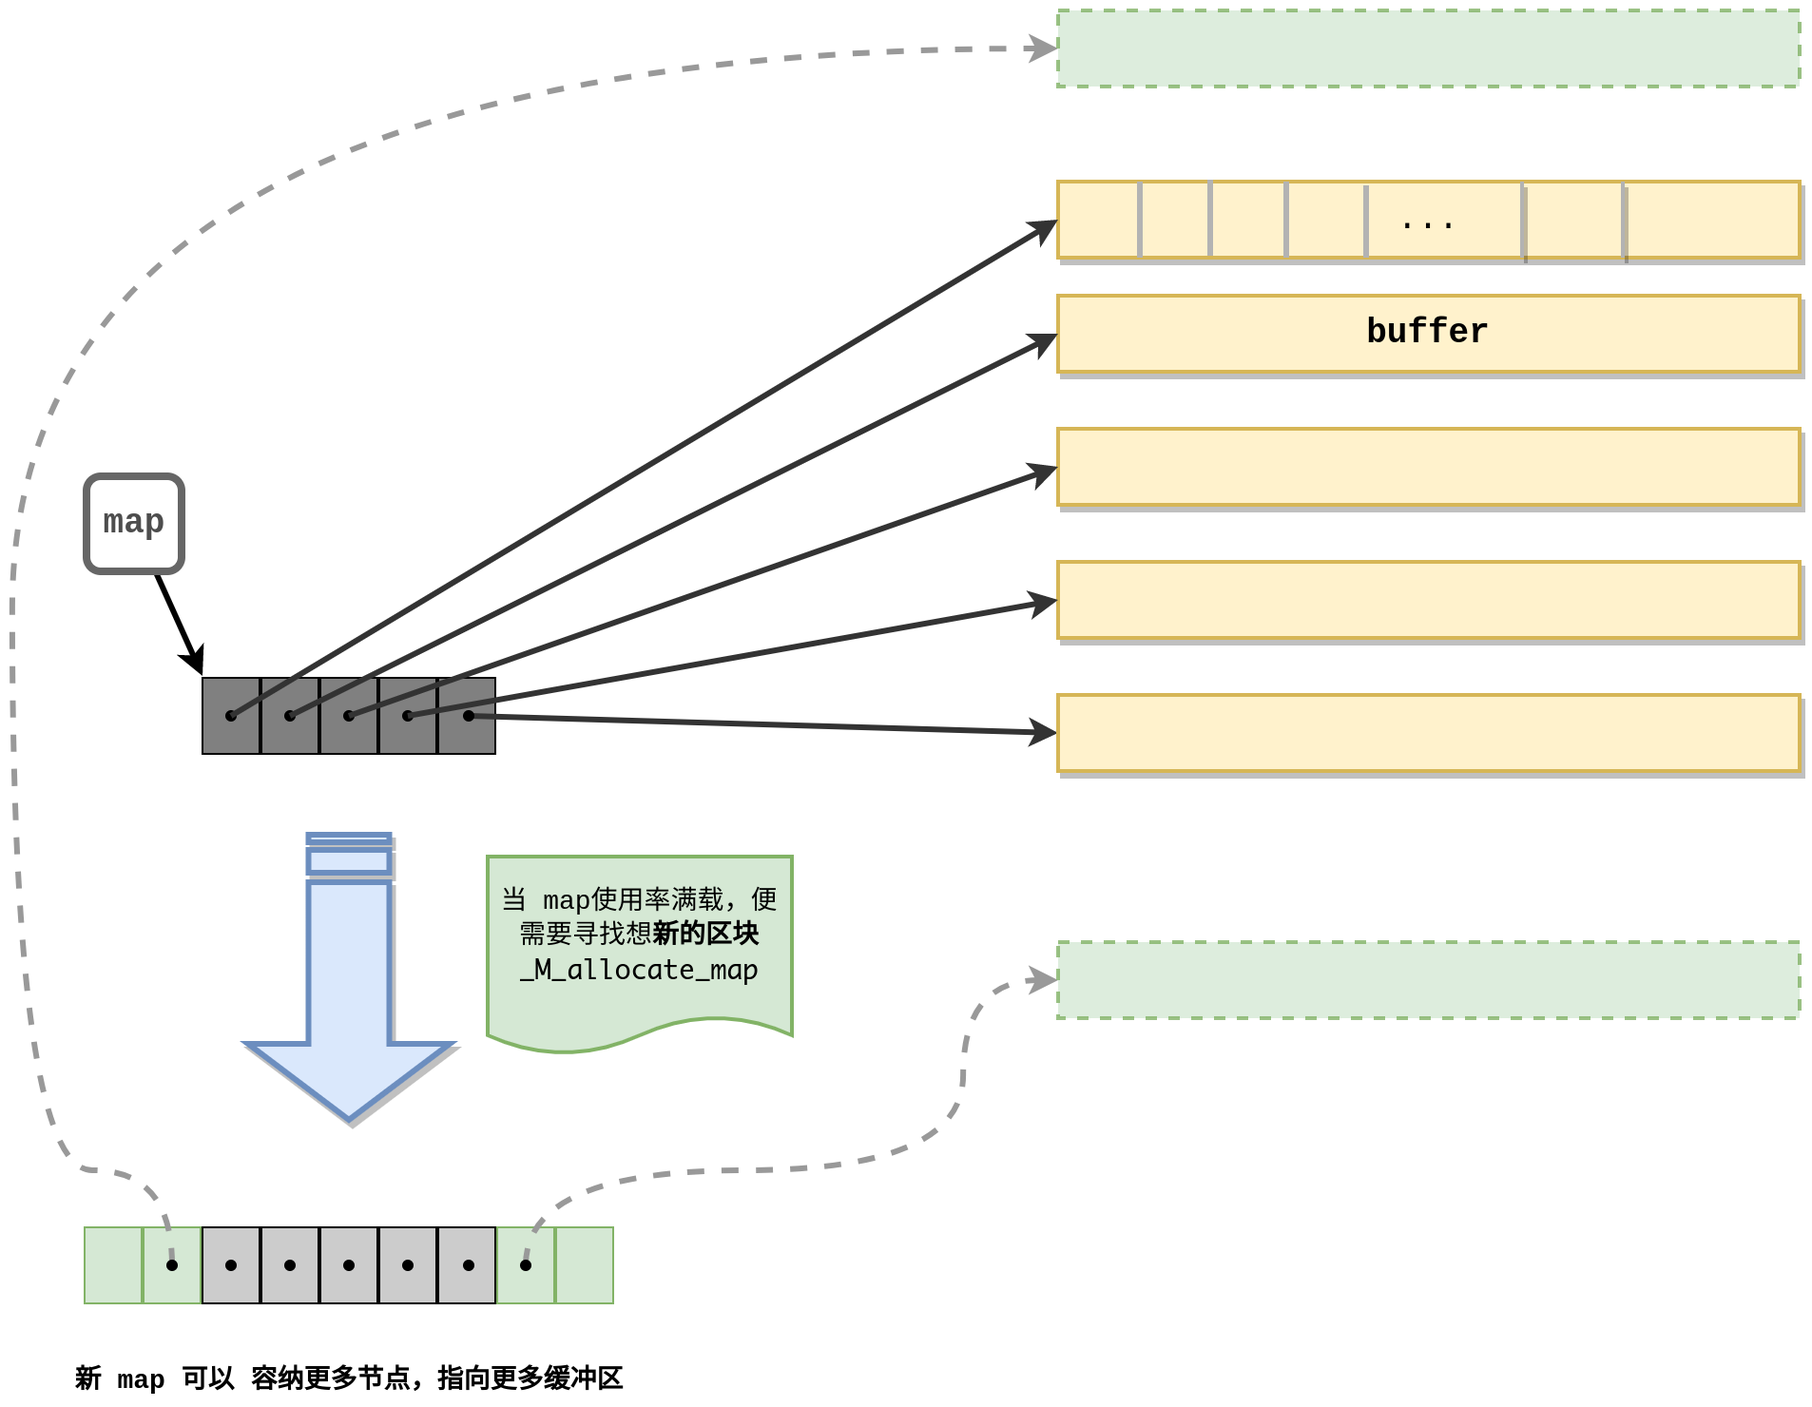
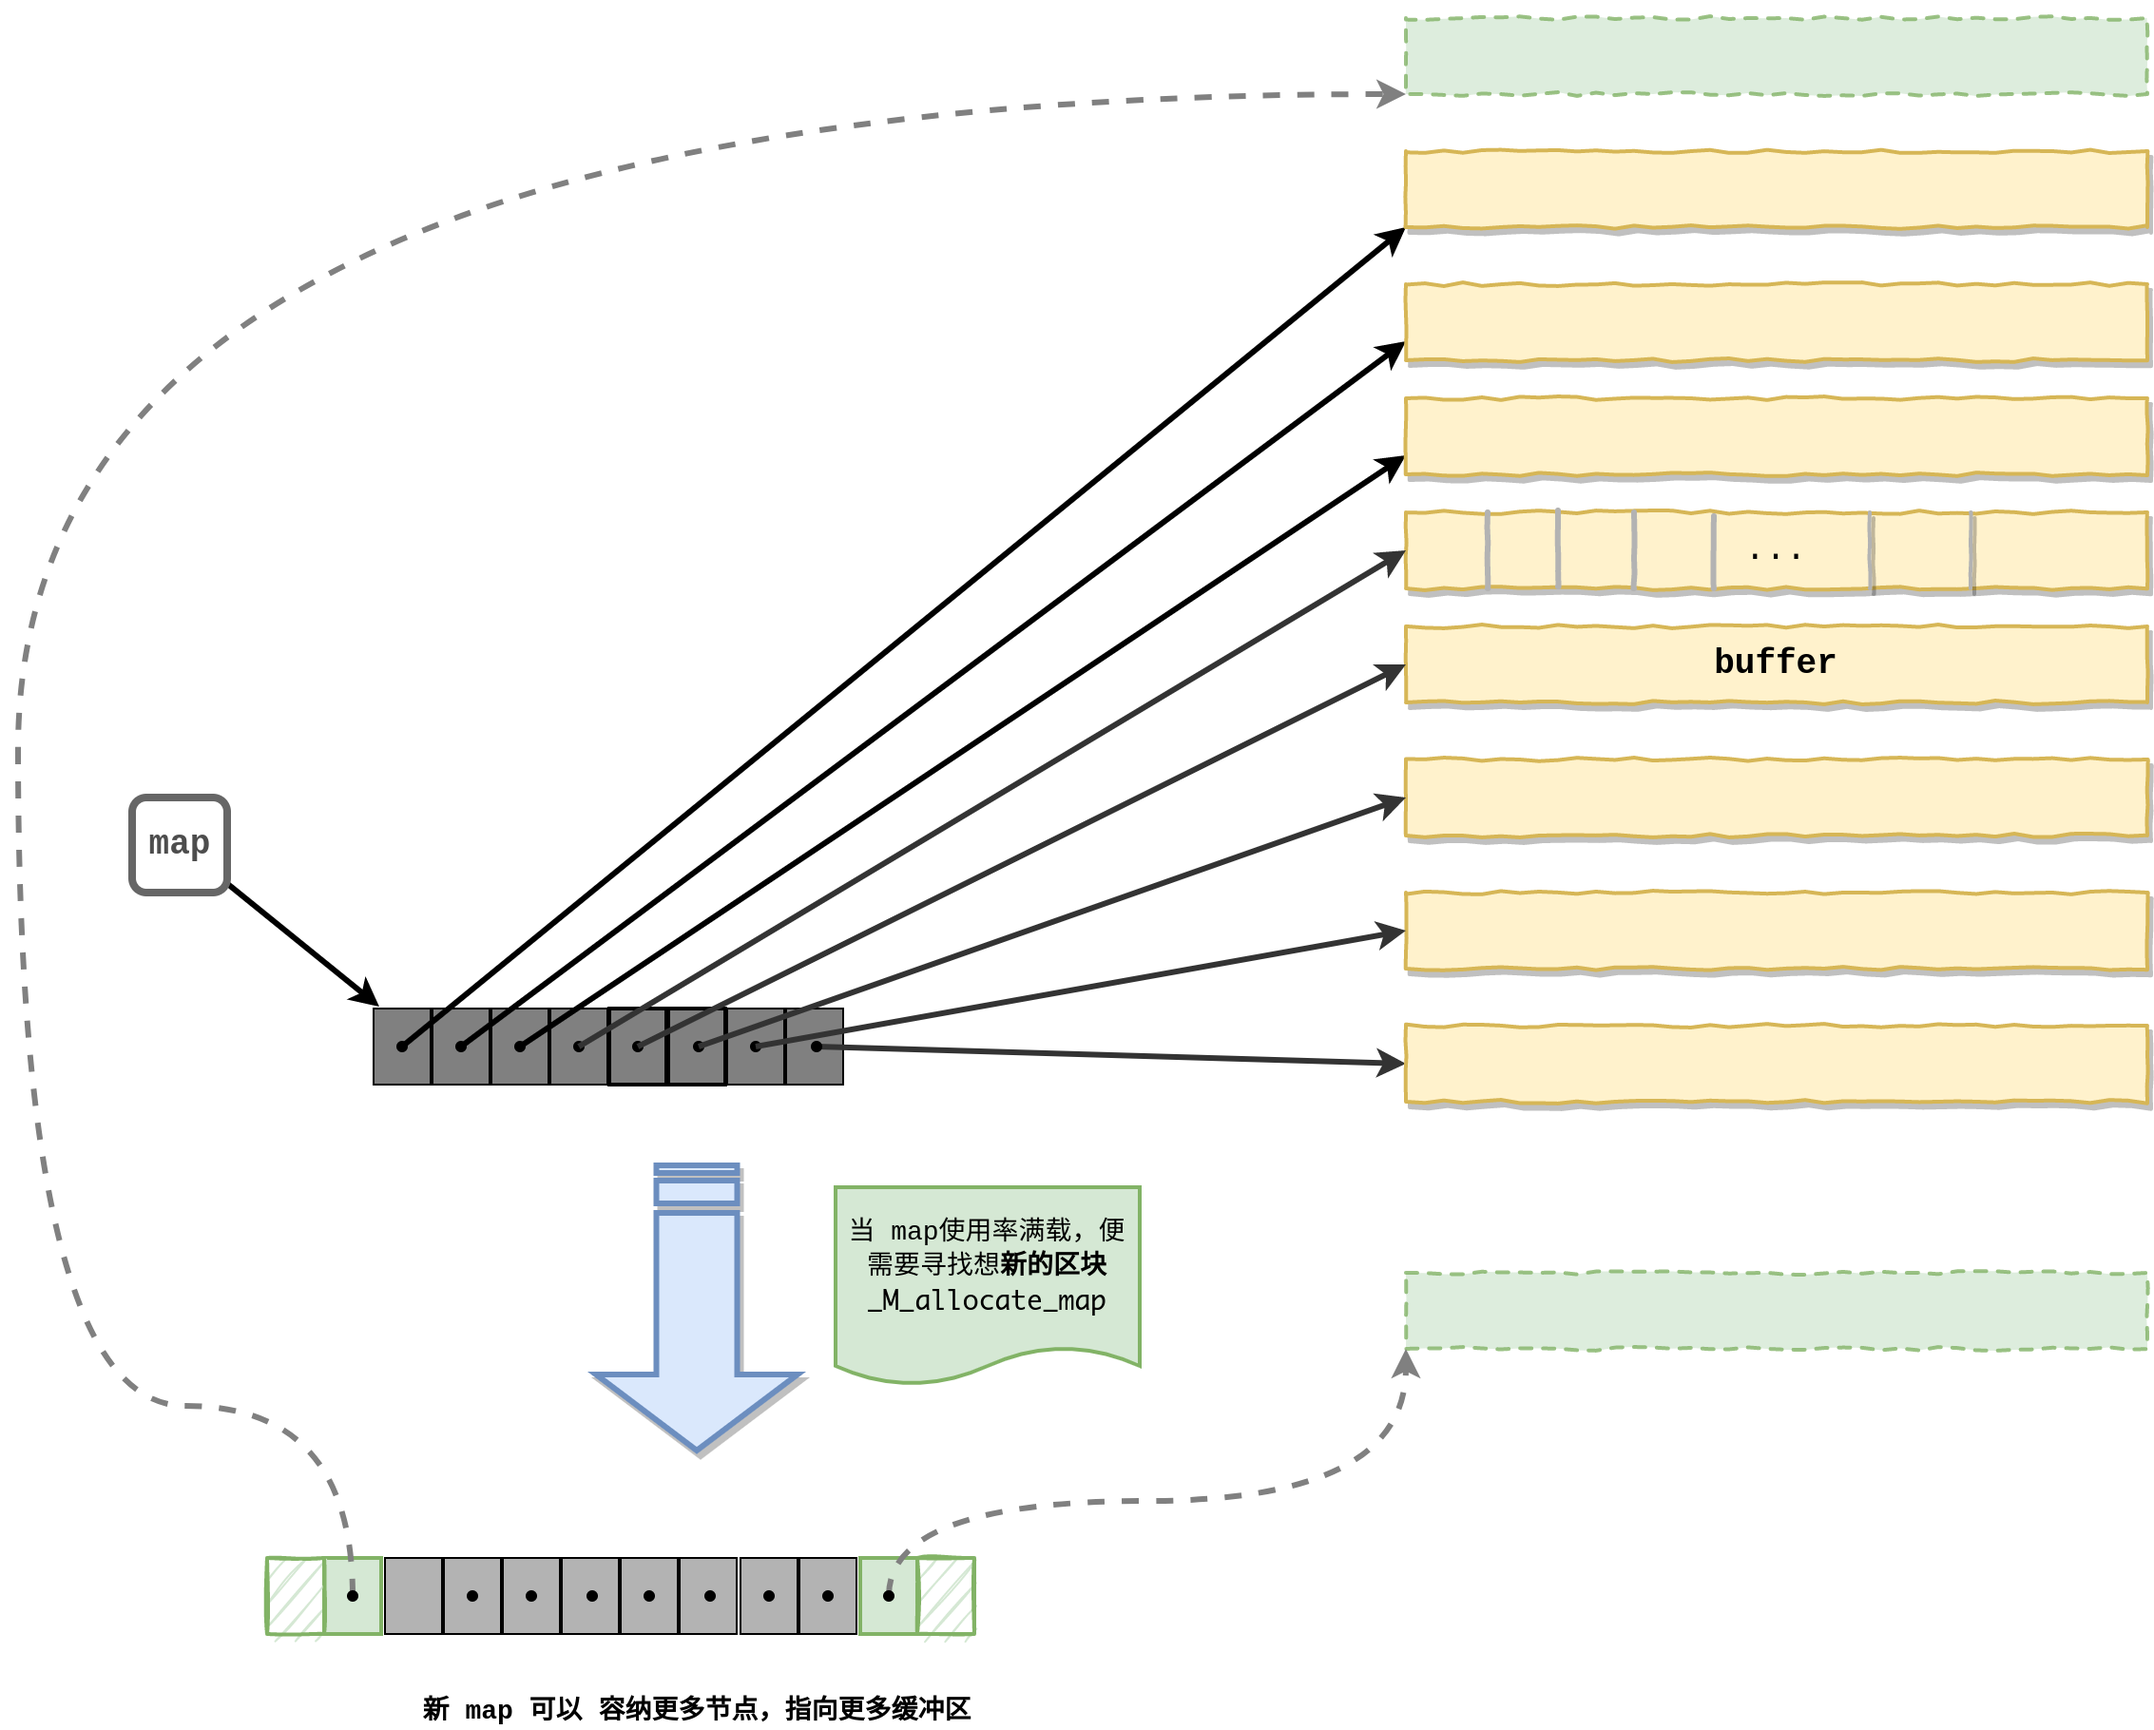
Site updated: 2021-06-20 01:54:57

diff --git a/2021/06/06/STL/拆书系列之《STL源码剖析》序列式容器（sequence containers）/index.html b/2021/06/06/STL/拆书系列之《STL源码剖析》序列式容器（sequence containers）/index.html
@@ -243,7 +243,7 @@
 
     
         <meta property="article:published_time" content="Sun Jun 06 2021 23:43:09 GMT+0800">
-        <meta property="article:modified_time" content="Sat Jun 19 2021 23:55:43 GMT+0800">
+        <meta property="article:modified_time" content="Sun Jun 20 2021 00:54:41 GMT+0800">
     
 
     <!-- The Twitter Card protocol -->
@@ -266,7 +266,7 @@
     "mainEntityOfPage": "http://example.com/2021/06/06/STL/%E6%8B%86%E4%B9%A6%E7%B3%BB%E5%88%97%E4%B9%8B%E3%80%8ASTL%E6%BA%90%E7%A0%81%E5%89%96%E6%9E%90%E3%80%8B%E5%BA%8F%E5%88%97%E5%BC%8F%E5%AE%B9%E5%99%A8%EF%BC%88sequence%20containers%EF%BC%89/index.html",
     "headline": "拆书系列之《STL源码剖析》序列式容器（sequence containers）",
     "datePublished": "Sun Jun 06 2021 23:43:09 GMT+0800",
-    "dateModified": "Sat Jun 19 2021 23:55:43 GMT+0800",
+    "dateModified": "Sun Jun 20 2021 00:54:41 GMT+0800",
     "author": {
         "@type": "Person",
         "name": "Joy Chen",
@@ -1617,7 +1617,7 @@ template&lt;typename _Tp, typename _Alloc&gt;
 void _Deque_base&lt;_Tp, _Alloc&gt;:: _M_initialize_map(size_t __num_elements) &#123;
   // 需要 map_pointer 节点数 = （元素个数 / 每个缓冲区可容纳的元素个数）+ 1
   // 如果刚好整除，就分配多一个节点
-  const size_t __num_nodes = (__num_elements/ __deque_buf_size(sizeof(_Tp))
+  const size_t __num_nodes = (__num_elements / __deque_buf_size(sizeof(_Tp))
                               + 1);
   // 一个中控器需要管理几个节点，
   // 至少： _S_initial_map_size = 8 个
@@ -1654,11 +1654,11 @@ void _Deque_base&lt;_Tp, _Alloc&gt;:: _M_initialize_map(size_t __num_elements) &
 </blockquote>
 <br/>
 
-<p><strong>std::deque<int> ideq(32, 0)</strong></p>
+<p><strong>std::deque<int> ideq(512, 1)</strong></p>
 <ul>
 <li><code>int</code>类型的 <code>deque</code> 决定了 <code>__deque_buf_size（一块 buffer 的大小）为 512 / sizeof(int) = 128</code>。</li>
-<li><code>32</code>个元素决定了中控器需要 <code>__num_nodes（buffer 个数）为 (32 / 128) + 1) = 1</code>。</li>
-<li><code>_M_map_size（中控器大小） 为 std::max(8, (buffer 个数 + 2)) = 8</code>。</li>
+<li><code>512</code>个元素决定了中控器需要 <code>__num_nodes（buffer 块数）为 (512 / 128) + 1) = 5</code>。</li>
+<li>中控器大小 <code>_M_map_size 为 std::max(8, (buffer 个数 + 2)) = 8</code>。</li>
 </ul>
 <br/>
 
